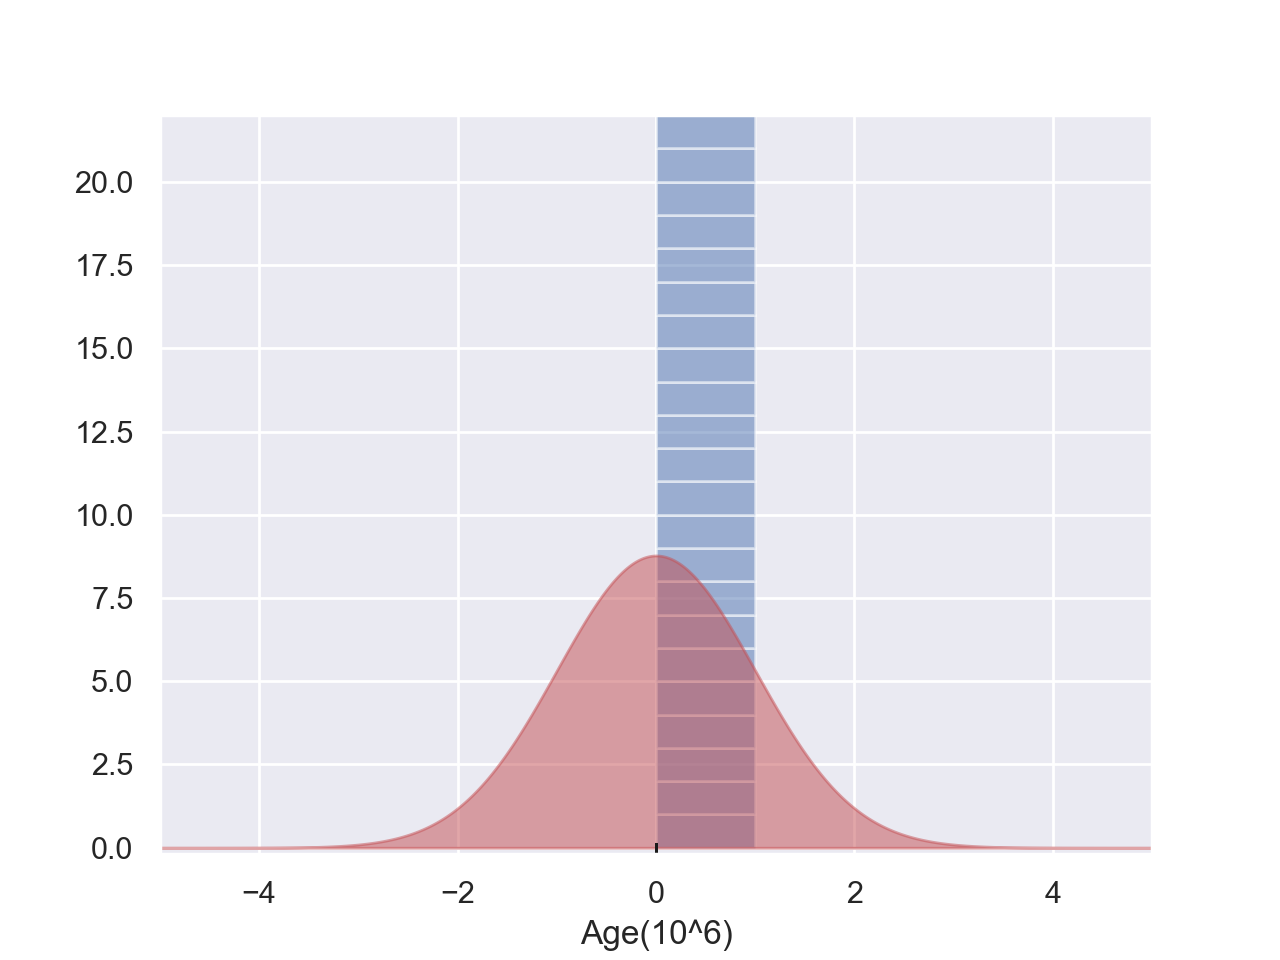
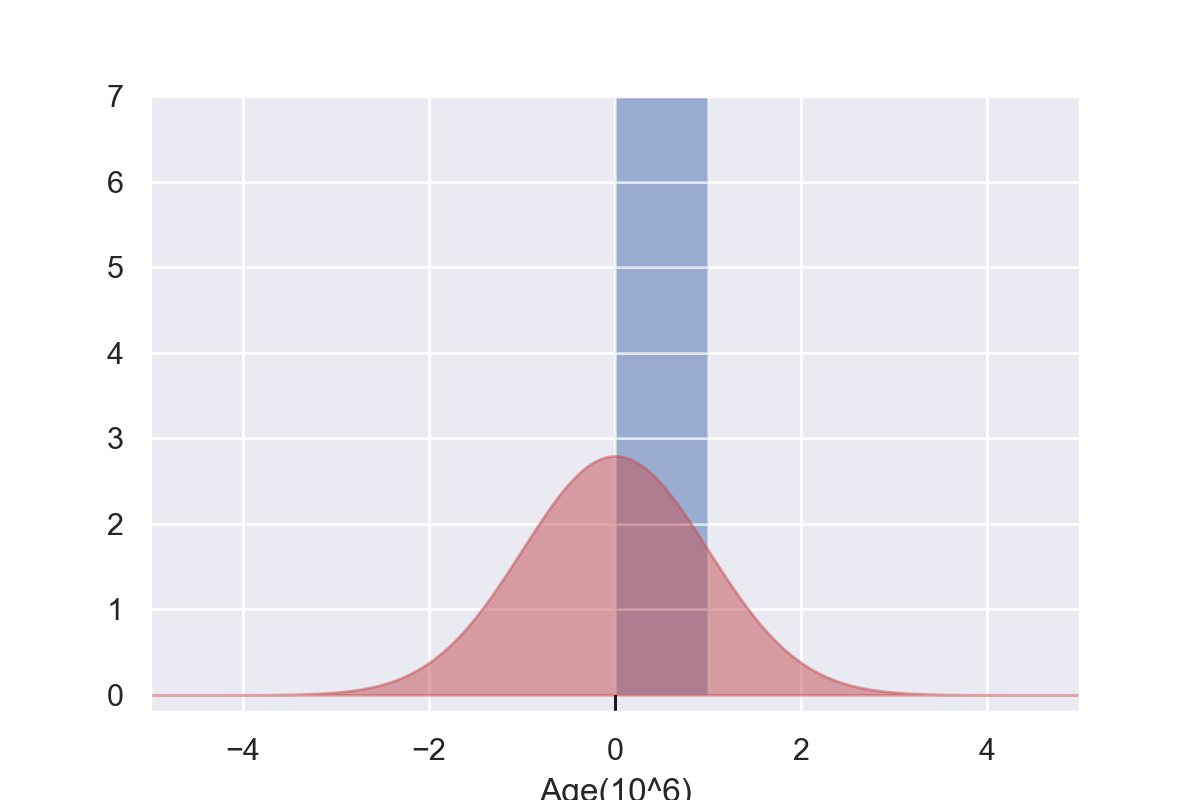
Fix the wrong parameter given in calculateMassRatio

diff --git a/NTNU_DataReduction.py b/NTNU_DataReduction.py
@@ -768,7 +768,7 @@ class App():
 
         if len(mass) > 0 and len(bg) > 0:
             try:
-                self.ratio_result = Utilities.calculateMassRatio(mass, bg, self.parameters[self.parameters_name.index('λ for age calculation')])
+                self.ratio_result = Utilities.calculateMassRatio(mass, bg, self.parameters[self.parameters_name.index('OG Date')])
 
                 for i in range(5):
                     for j in range(5):
@@ -1987,11 +1987,11 @@ class App():
                             self.parameters[self.parameters_name.index("Atmospheric Ratio 40/36(a)_std")],
                             self.parameters[self.parameters_name.index("Atmospheric Ratio 38/36(a)")],
                             self.parameters[self.parameters_name.index("Atmospheric Ratio 38/36(a)_std")],
-                            self.parameters[self.parameters_name.index("λ for age calculation")],
+                            self.parameters[self.parameters_name.index("L")],
                 
                             #self.parameters[self.parameters_name.index("λ_std for age calculation")],
                             
-                            self.parameters[self.parameters_name.index("J_int")])
+                            self.parameters[self.parameters_name.index("J int")])
                             )
                     f.write(",,,,,,SUM,{},,{},,{},,{},,{}".format(ar36a_sum,ar37ca_sum,ar38cl_sum,ar39k_s_sum,ar40r_sum))
                     f.close()

diff --git a/UI/ParameterSetting.py b/UI/ParameterSetting.py
@@ -130,7 +130,7 @@ class Ui_MainWindow(object):
         item = self.ParameetrTable.verticalHeaderItem(14)
         item.setText(_translate("MainWindow", "λ for age calculation"))
         item = self.ParameetrTable.verticalHeaderItem(15)
-        item.setText(_translate("MainWindow", "λ_std for age calculation"))
+        item.setText(_translate("MainWindow", "λ std for age calculation"))
         item = self.ParameetrTable.verticalHeaderItem(16)
         item.setText(_translate("MainWindow", "J value"))
         item = self.ParameetrTable.verticalHeaderItem(17)